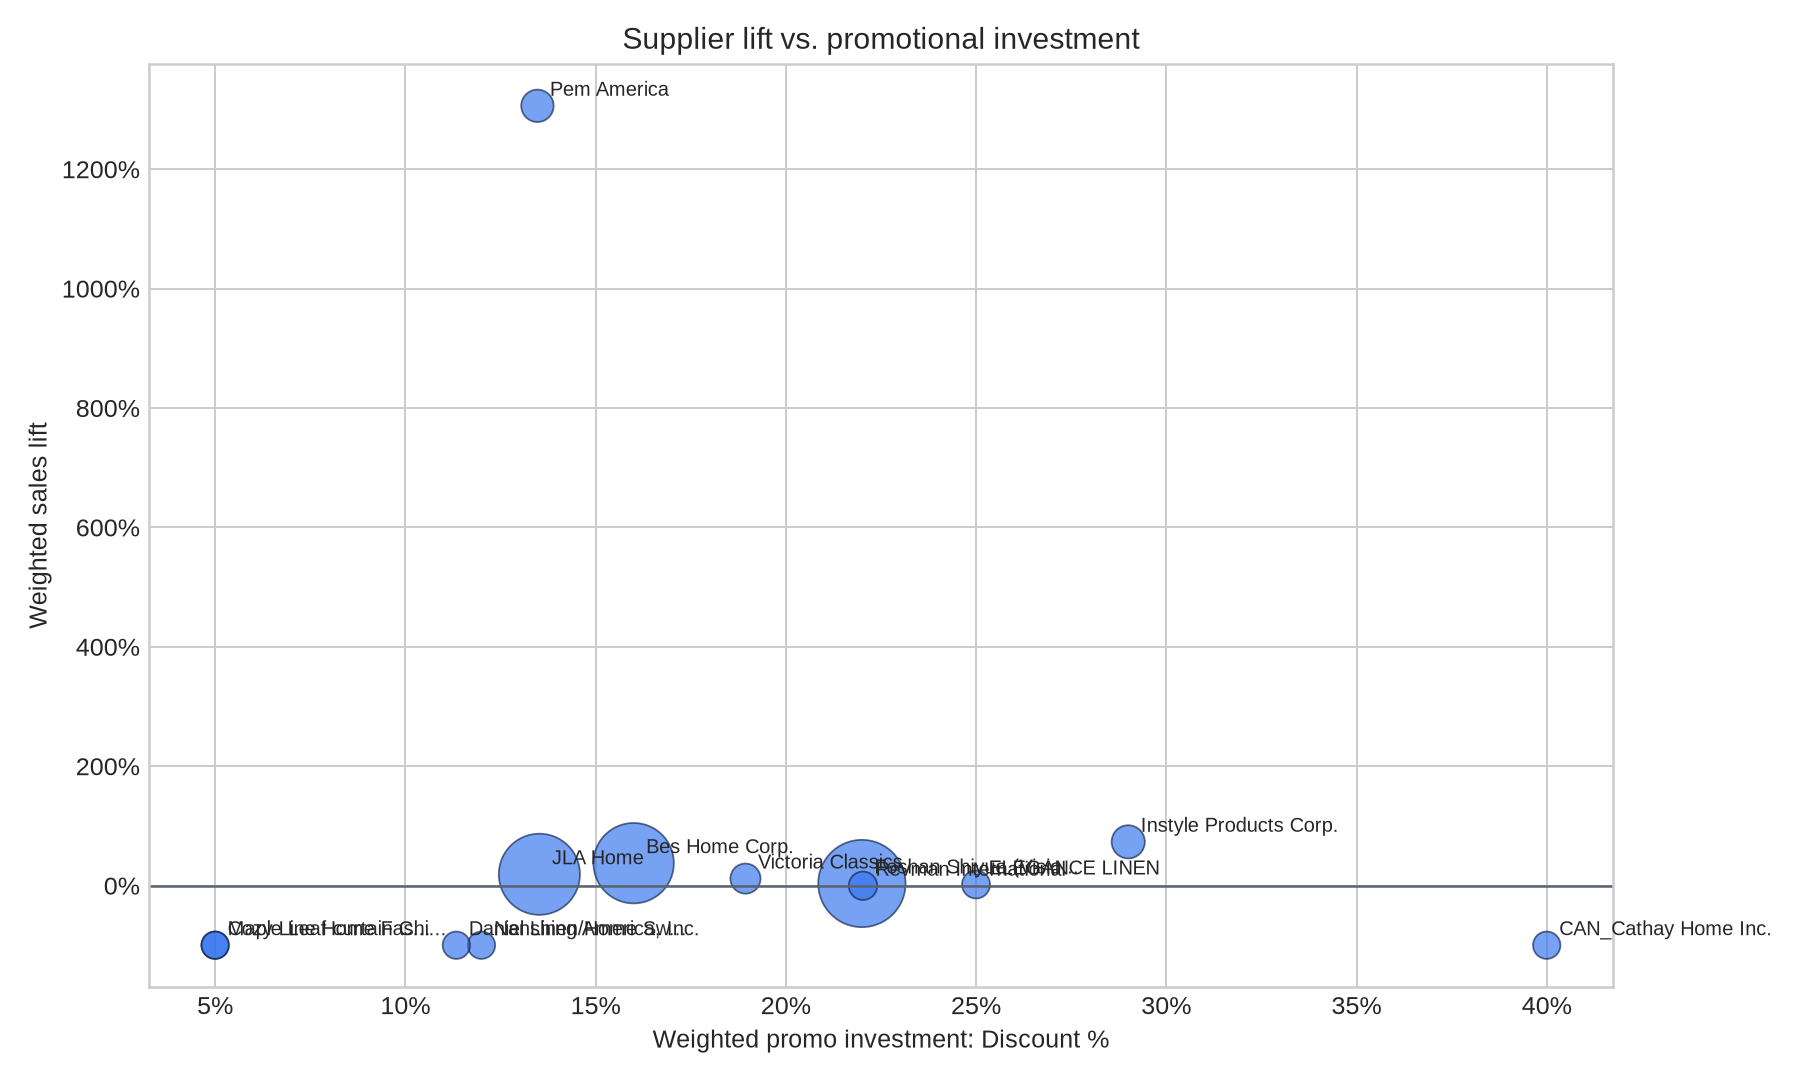
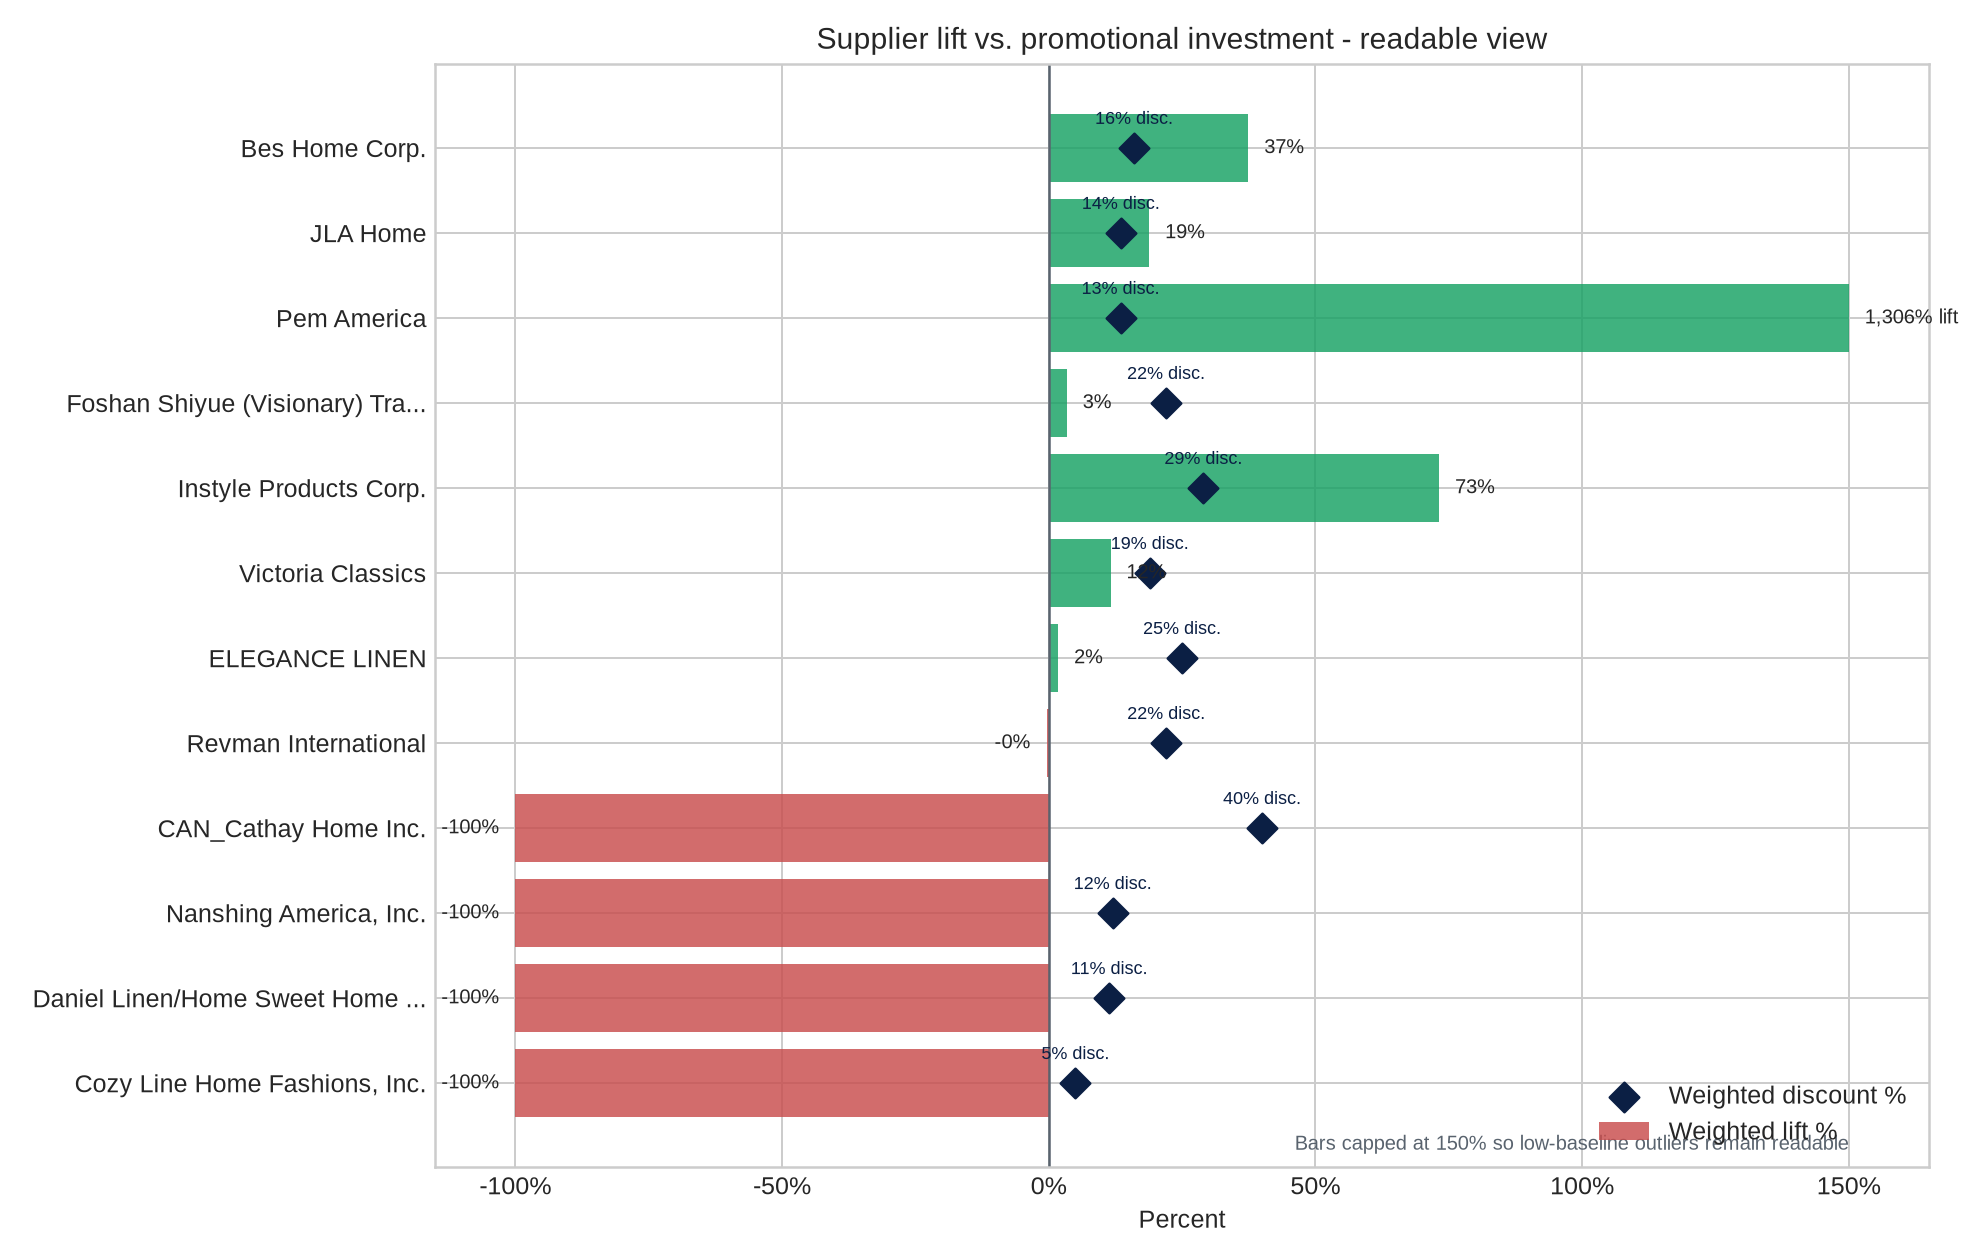
Clarify metrics and simplify supplier chart

diff --git a/analysis/member_monday/build_case_study.py b/analysis/member_monday/build_case_study.py
@@ -312,41 +312,82 @@ def save_chart_class_sales(class_summary: pd.DataFrame, out: Path) -> None:
 
 def save_chart_supplier_scatter(supplier_summary: pd.DataFrame, out: Path) -> None:
     plot_df = supplier_summary[
-        (supplier_summary["l10_non_promo_daily_avg"] > 0)
+        (
+            (supplier_summary["l10_non_promo_daily_avg"] > 0)
+            | (supplier_summary["member_monday_sales"] > 0)
+        )
         & supplier_summary["weighted_discount_pct"].notna()
         & supplier_summary["weighted_lift_pct"].notna()
     ].copy()
-    plot_df = plot_df.sort_values("member_monday_sales", ascending=False).head(14)
-    sizes = 120 + (
-        plot_df["member_monday_sales"] / plot_df["member_monday_sales"].max()
-    ) * 1100
-    fig, ax = plt.subplots(figsize=(10, 6))
-    ax.scatter(
-        plot_df["weighted_discount_pct"] * 100,
-        plot_df["weighted_lift_pct"] * 100,
-        s=sizes,
-        alpha=0.65,
-        color="#2f6fed",
-        edgecolors="#0b1f44",
-        linewidths=0.7,
+    plot_df = plot_df.sort_values("incremental_sales", ascending=True).tail(12)
+    plot_df["lift_pct"] = plot_df["weighted_lift_pct"] * 100
+    plot_df["discount_pct"] = plot_df["weighted_discount_pct"] * 100
+    plot_df["display_lift_pct"] = plot_df["lift_pct"].clip(lower=-110, upper=150)
+    plot_df["display_name"] = plot_df["supplier_name"].map(
+        lambda name: name if len(name) <= 32 else name[:29] + "..."
     )
-    ax.axhline(0, color="#59636e", linewidth=1)
-    ax.set_xlabel("Weighted promo investment: Discount %")
-    ax.set_ylabel("Weighted sales lift")
-    ax.set_title("Supplier lift vs. promotional investment")
-    ax.yaxis.set_major_formatter(lambda y, _pos: f"{y:.0f}%")
+
+    colors = [
+        "#16a163" if value > 0 else "#c84c4c" if value < 0 else "#9aa6b2"
+        for value in plot_df["incremental_sales"]
+    ]
+    y_positions = range(len(plot_df))
+    fig, ax = plt.subplots(figsize=(11, 7))
+    ax.barh(
+        list(y_positions),
+        plot_df["display_lift_pct"],
+        color=colors,
+        alpha=0.82,
+        label="Weighted lift %",
+    )
+    ax.scatter(
+        plot_df["discount_pct"],
+        list(y_positions),
+        marker="D",
+        s=70,
+        color="#0b1f44",
+        label="Weighted discount %",
+        zorder=3,
+    )
+    ax.axvline(0, color="#59636e", linewidth=1)
+    ax.set_yticks(list(y_positions), plot_df["display_name"])
+    ax.set_xlabel("Percent")
+    ax.set_title("Supplier lift vs. promotional investment - readable view")
     ax.xaxis.set_major_formatter(lambda x, _pos: f"{x:.0f}%")
-    for row in plot_df.itertuples():
-        label = row.supplier_name
-        if len(label) > 22:
-            label = label[:20] + "..."
-        ax.annotate(
-            label,
-            (row.weighted_discount_pct * 100, row.weighted_lift_pct * 100),
-            xytext=(5, 4),
-            textcoords="offset points",
+    ax.set_xlim(-115, 165)
+    ax.legend(loc="lower right")
+
+    for idx, row in enumerate(plot_df.itertuples()):
+        lift_label = f"{row.lift_pct:,.0f}%"
+        if row.lift_pct > 150:
+            lift_label += " lift"
+        x_pos = row.display_lift_pct + 3 if row.display_lift_pct >= 0 else row.display_lift_pct - 3
+        ax.text(
+            x_pos,
+            idx,
+            lift_label,
+            ha="left" if row.display_lift_pct >= 0 else "right",
+            va="center",
             fontsize=8,
         )
+        ax.text(
+            row.discount_pct,
+            idx + 0.24,
+            f"{row.discount_pct:.0f}% disc.",
+            ha="center",
+            va="bottom",
+            fontsize=7,
+            color="#0b1f44",
+        )
+    ax.text(
+        150,
+        -0.72,
+        "Bars capped at 150% so low-baseline outliers remain readable",
+        ha="right",
+        va="center",
+        fontsize=8,
+        color="#59636e",
+    )
     fig.tight_layout()
     fig.savefig(out, dpi=180)
     plt.close(fig)
@@ -423,6 +464,73 @@ def markdown_table(df: pd.DataFrame, columns: list[str], limit: int | None = Non
     lines = [render_row(headers), separator]
     lines.extend(render_row(row) for row in body)
     return "\n".join(lines)
+
+
+def metric_definitions() -> pd.DataFrame:
+    return pd.DataFrame(
+        [
+            {
+                "metric": "sku_count",
+                "definition": "Count of unique participating SKUs in the group.",
+            },
+            {
+                "metric": "active_skus",
+                "definition": (
+                    "Count of participating SKUs that recorded more than $0 in "
+                    "Member Monday sales."
+                ),
+            },
+            {
+                "metric": "positive_lift_skus",
+                "definition": (
+                    "Count of participating SKUs where Member Monday sales were "
+                    "greater than the recent non-promo daily average."
+                ),
+            },
+            {
+                "metric": "positive_lift_sku_rate",
+                "definition": "Positive lift SKUs divided by total participating SKUs.",
+            },
+            {
+                "metric": "l10_non_promo_daily_avg",
+                "definition": (
+                    "Recent non-promotional daily sales average used as the baseline."
+                ),
+            },
+            {
+                "metric": "member_monday_sales",
+                "definition": "Sales recorded for the SKU/group on Member Monday.",
+            },
+            {
+                "metric": "incremental_sales",
+                "definition": (
+                    "Member Monday sales minus the recent non-promo daily average."
+                ),
+            },
+            {
+                "metric": "weighted_lift_pct",
+                "definition": (
+                    "Incremental sales divided by the recent non-promo daily average."
+                ),
+            },
+            {
+                "metric": "weighted_discount_pct",
+                "definition": (
+                    "Supplier discount investment weighted by baseline sales, so "
+                    "higher-volume SKUs influence the average more than low-volume SKUs."
+                ),
+            },
+            {
+                "metric": "lift_per_discount_point",
+                "definition": (
+                    "Weighted lift divided by weighted discount. A value of 2.0 means "
+                    "the group produced 2 percentage points of sales lift for every "
+                    "1 percentage point of discount investment. Use this as an "
+                    "efficiency indicator, not as a dollar ROI."
+                ),
+            },
+        ]
+    )
 
 
 def prep_report_tables(
@@ -564,6 +672,13 @@ Member Monday generated **{fmt_currency_2(sales)}** in participating SKU sales v
 
 **Data QA note:** {qa_note}
 
+## Metric definitions
+
+- **Active SKUs:** participating SKUs that had more than `$0` in Member Monday sales. It answers, "How many of the submitted SKUs actually sold during the event?"
+- **Lift per discount point:** weighted sales lift divided by weighted discount investment. For example, a value of `2.0` means the supplier generated about 2 percentage points of sales lift for every 1 percentage point of discount. Use it as an efficiency read, not a margin or dollar ROI calculation.
+- **Weighted lift:** total incremental sales divided by the total recent non-promo daily average for that group.
+- **Weighted discount:** the `Discount` field averaged by baseline sales, so higher-volume SKUs influence the supplier/class average more than low-volume SKUs.
+
 ## What changed on Member Monday
 
 - **Overall lift:** {fmt_pct(lift)} on {fmt_currency_2(sales)} in Member Monday sales.
@@ -688,6 +803,9 @@ def main() -> None:
     bucket_summary.to_csv(args.out / "discount_bucket_summary.csv", index=False)
 
     with pd.ExcelWriter(args.out / "member_monday_case_study.xlsx") as writer:
+        metric_definitions().to_excel(
+            writer, sheet_name="Metric Definitions", index=False
+        )
         sku_df.to_excel(writer, sheet_name="SKU Data", index=False)
         class_summary.to_excel(writer, sheet_name="Class Summary", index=False)
         supplier_summary.to_excel(writer, sheet_name="Supplier Summary", index=False)

diff --git a/analysis/member_monday/output/Member_Monday_Loyalty_Lift_Case_Study.md b/analysis/member_monday/output/Member_Monday_Loyalty_Lift_Case_Study.md
@@ -8,6 +8,13 @@ Member Monday generated **$11,116.60** in participating SKU sales versus a recen
 
 **Data QA note:** The cleaned SKU-detail reconstruction ties to the PDF total within $0.04 on the baseline and $0.01 on Member Monday sales.
 
+## Metric definitions
+
+- **Active SKUs:** participating SKUs that had more than `$0` in Member Monday sales. It answers, "How many of the submitted SKUs actually sold during the event?"
+- **Lift per discount point:** weighted sales lift divided by weighted discount investment. For example, a value of `2.0` means the supplier generated about 2 percentage points of sales lift for every 1 percentage point of discount. Use it as an efficiency read, not a margin or dollar ROI calculation.
+- **Weighted lift:** total incremental sales divided by the total recent non-promo daily average for that group.
+- **Weighted discount:** the `Discount` field averaged by baseline sales, so higher-volume SKUs influence the supplier/class average more than low-volume SKUs.
+
 ## What changed on Member Monday
 
 - **Overall lift:** 16.1% on $11,116.60 in Member Monday sales.
